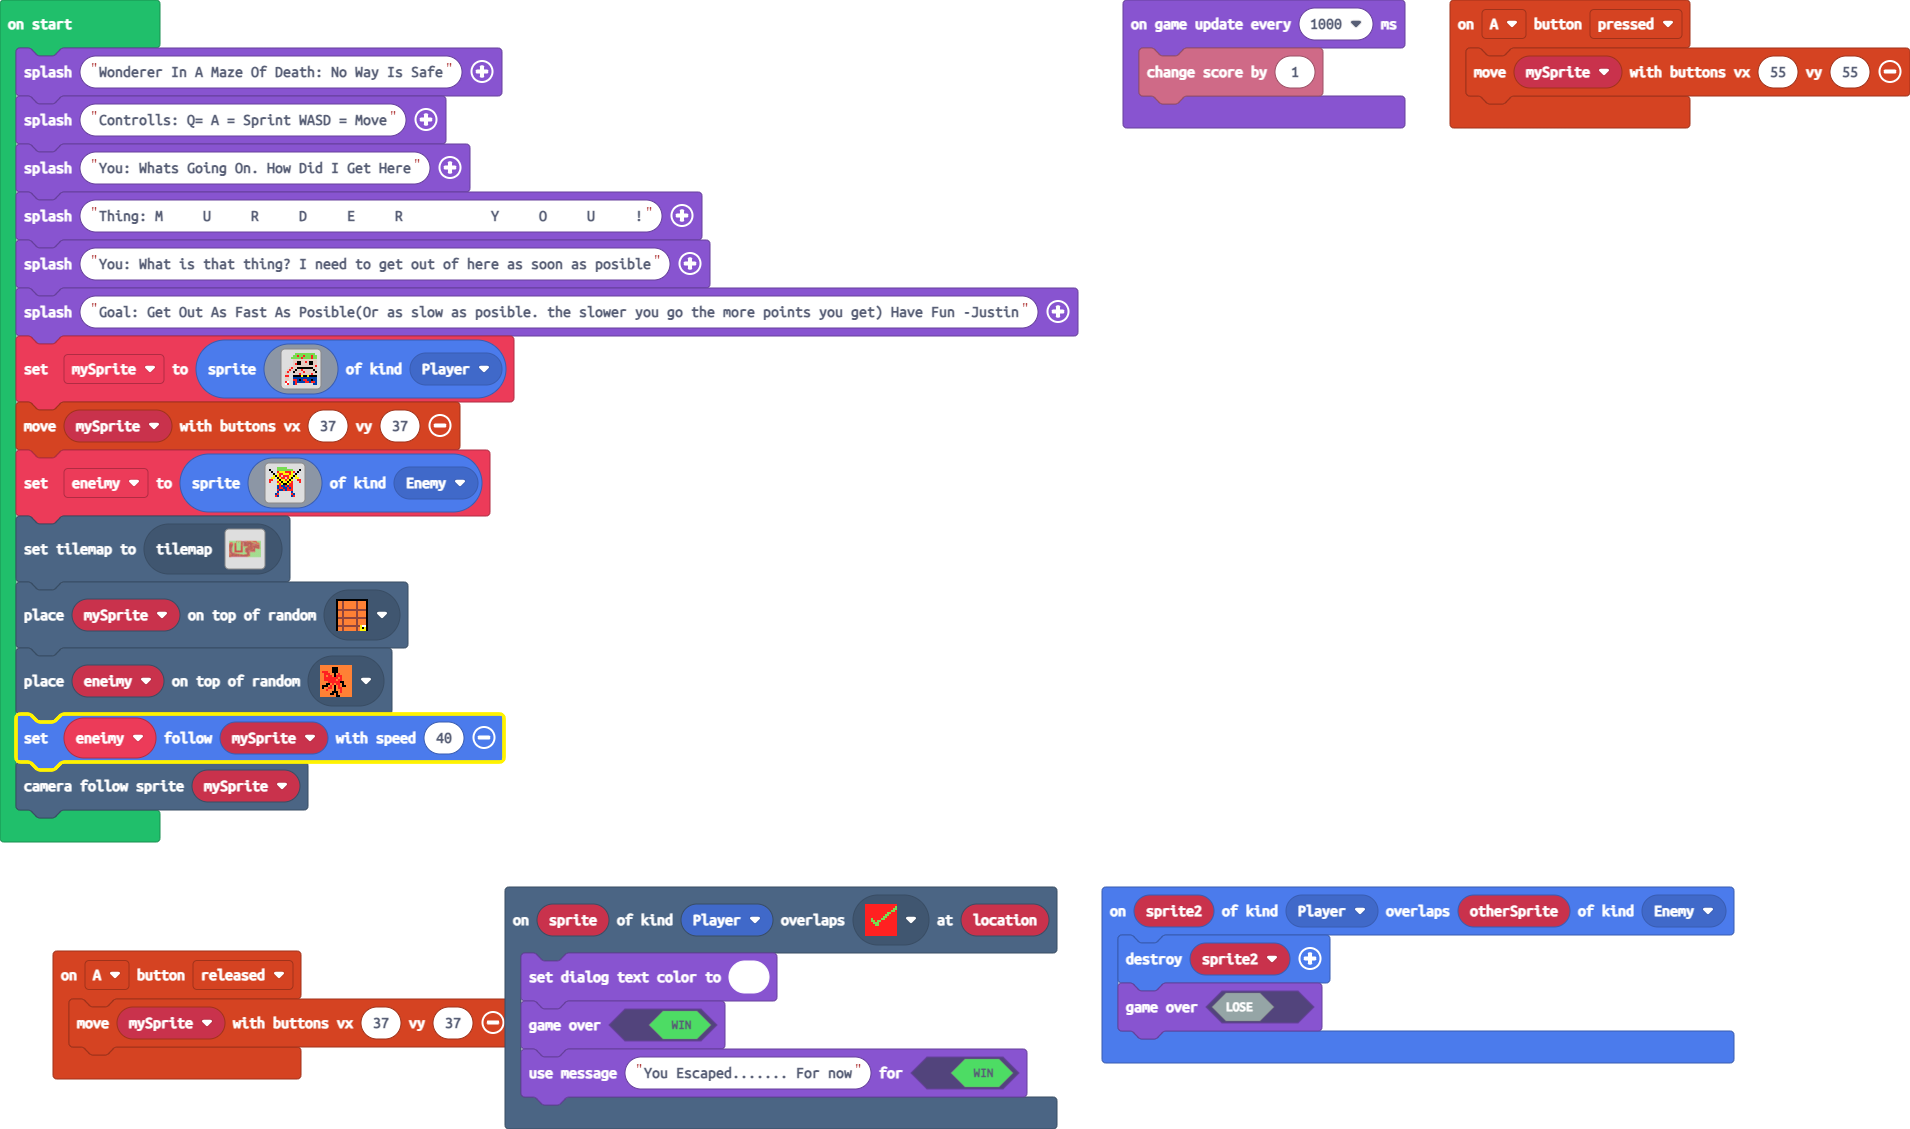
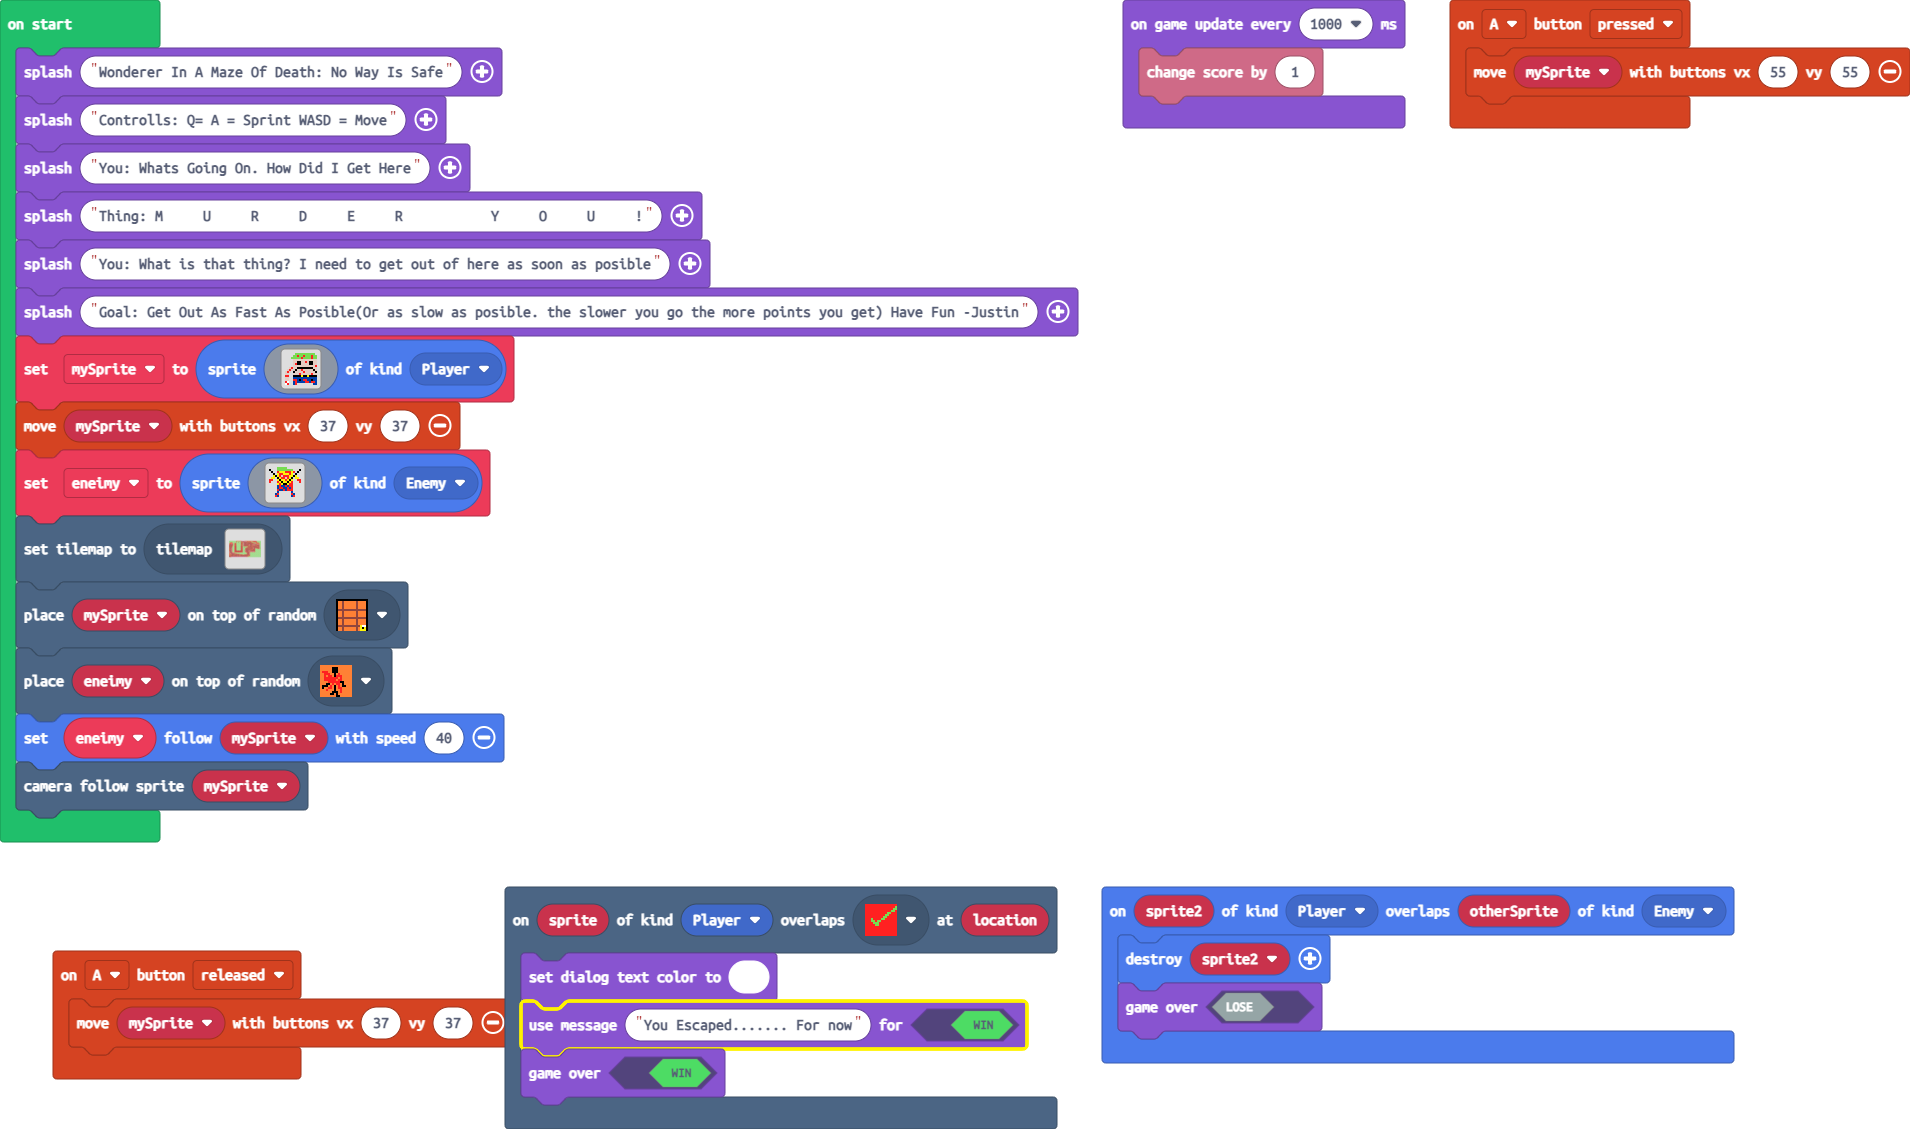
Update main.blocks, main.ts, main.py

Changed region(s): [[0.278, 0.868, 0.556, 0.992], [0.0, 0.62, 0.278, 0.682]]

diff --git a/main.ts b/main.ts
@@ -3,8 +3,8 @@ controller.A.onEvent(ControllerButtonEvent.Pressed, function () {
 })
 scene.onOverlapTile(SpriteKind.Player, assets.tile`myTile4`, function (sprite, location) {
     game.setDialogTextColor(1)
-    game.gameOver(true)
     game.setGameOverMessage(true, "You Escaped....... For now")
+    game.gameOver(true)
 })
 sprites.onOverlap(SpriteKind.Player, SpriteKind.Enemy, function (sprite2, otherSprite) {
     sprites.destroy(sprite2)

diff --git a/main.py b/main.py
@@ -78,7 +78,3 @@ tiles.place_on_random_tile(eneimy, assets.tile("""
 """))
 eneimy.follow(mySprite, 37)
 scene.camera_follow_sprite(mySprite)
-
-def on_update_interval():
-    info.change_score_by(1)
-game.on_update_interval(1000, on_update_interval)
